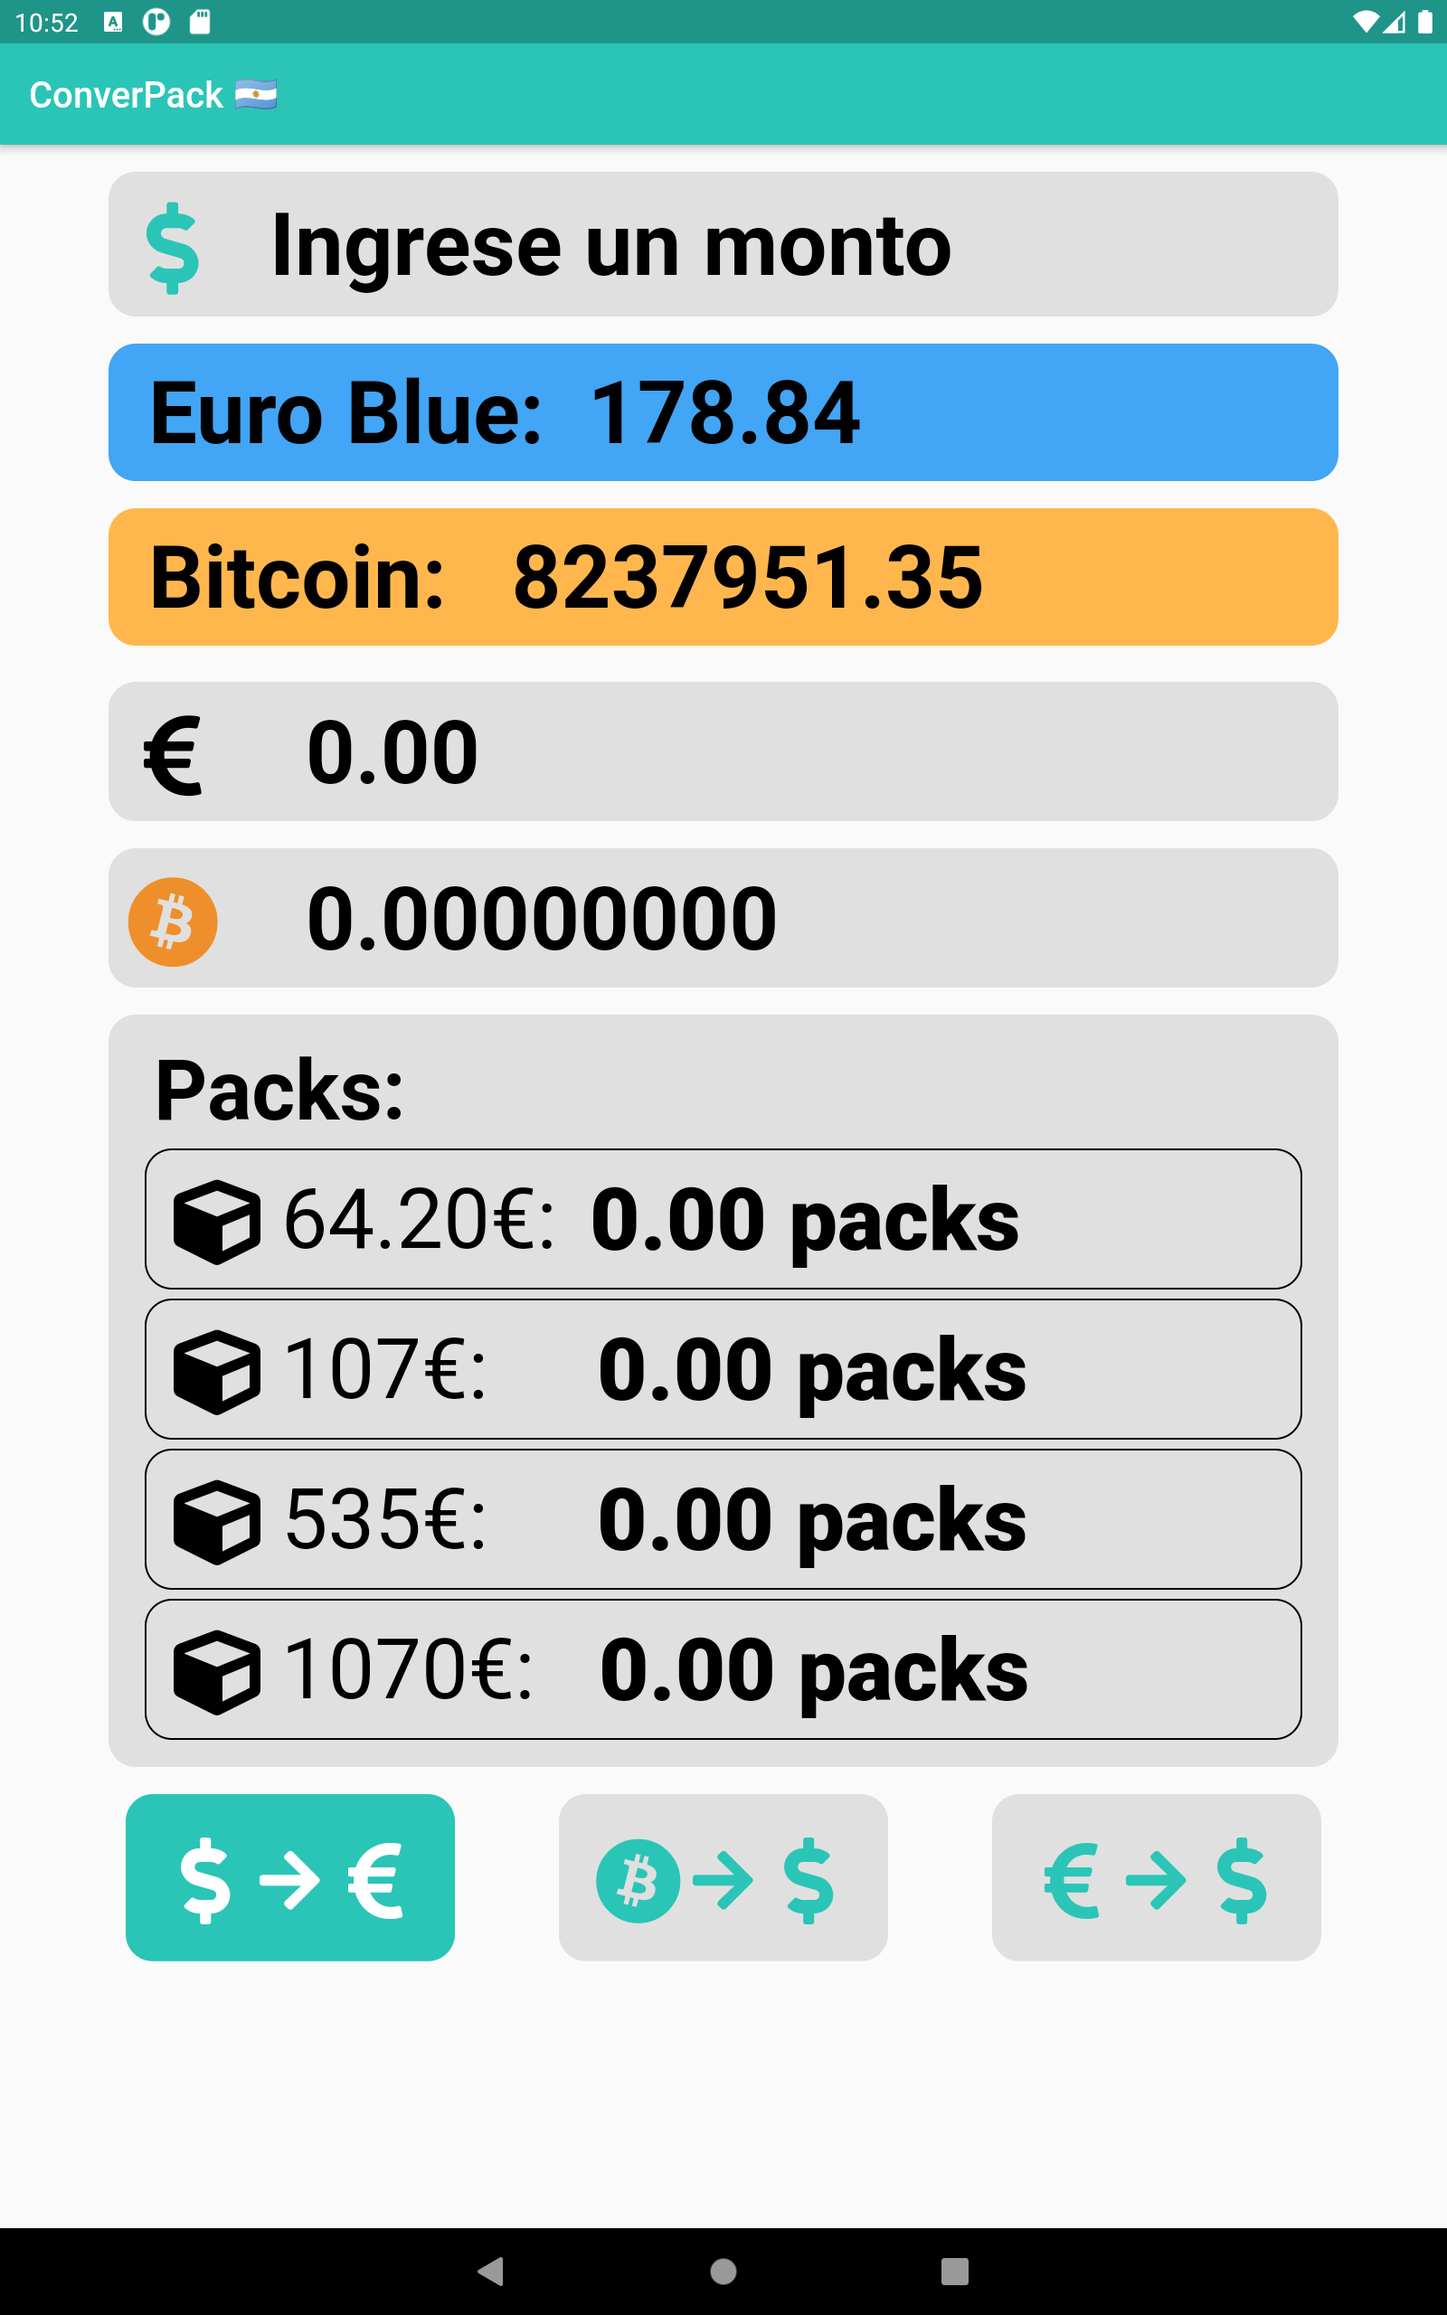
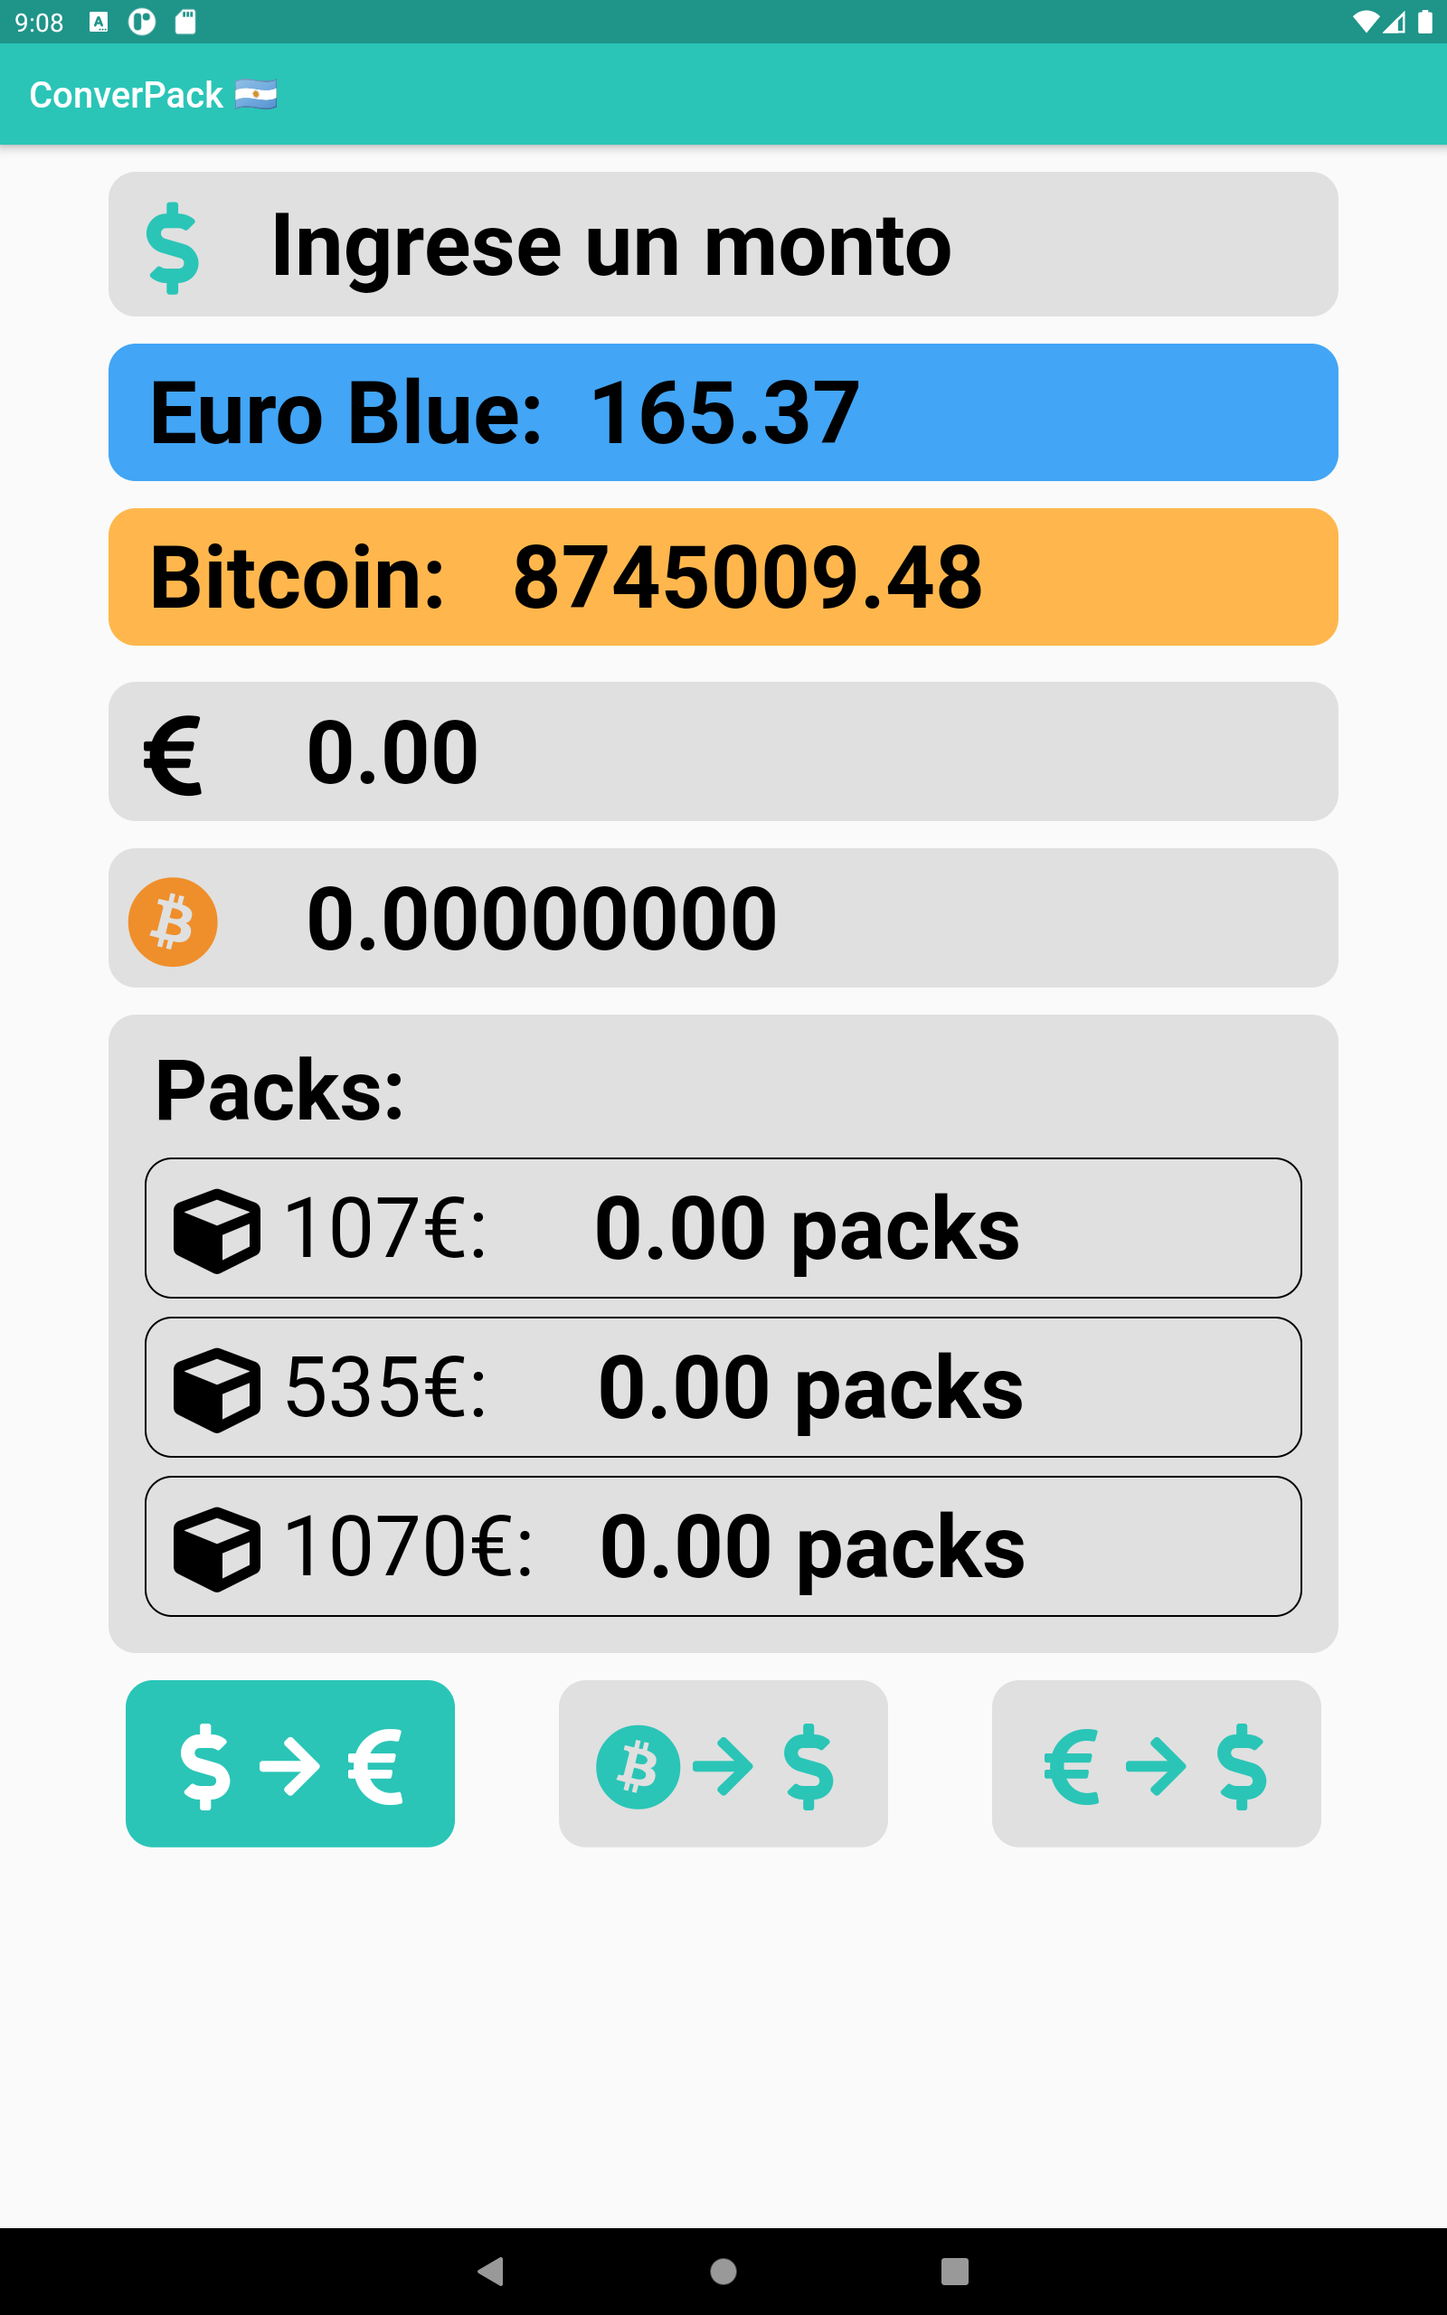
se ajustan tamano de botones y tipografia

diff --git a/lib/src/widgets/cotizacion.dart b/lib/src/widgets/cotizacion.dart
@@ -1,9 +1,10 @@
+import 'dart:io';
+
 import 'package:flutter/material.dart';
 import 'package:provider/provider.dart';
 import 'package:converpak/src/models/moneda_model.dart';
 import 'package:converpak/src/services/datos.dart';
 import 'package:converpak/src/services/moneda_service.dart';
-
 
 class Cotizacion extends StatelessWidget {
   Future<List<Moneda>> _cotizaciones;
@@ -17,112 +18,115 @@ class Cotizacion extends StatelessWidget {
     _cotizaciones = (datos.valorEuro == 0.0 || datos.valorBitcoin == 0.0)
         ? _monedaService.getCotizaciones()
         : _cotizaciones;
-    
-    return FutureBuilder(
-      future: _cotizaciones,
-      builder: (BuildContext context, AsyncSnapshot snapshot) {
-        if (snapshot.hasData) {
-          List<Moneda> monedas = snapshot.data;
 
-          monedas.forEach((element) {
-            if (element.tipo.contains('euro_blue')) {
-                
-              datos.valorEuro = element.valor;
-              
-            } else {
-              datos.valorBitcoin = element.valor;
-            }
-          });
-          return Column(
-            children: [
-              Container(
+    double alturaBoton = 0.0;
+    if (datos.width < 600 && datos.width < 350) {
+      alturaBoton = datos.height * 0.075;
+    }
+
+    return FutureBuilder(
+        future: _cotizaciones,
+        builder: (BuildContext context, AsyncSnapshot snapshot) {
+          if (snapshot.hasData) {
+            List<Moneda> monedas = snapshot.data;
+
+            monedas.forEach((element) {
+              if (element.tipo.contains('euro_blue')) {
+                datos.valorEuro = element.valor;
+              } else {
+                datos.valorBitcoin = element.valor;
+              }
+            });
+            return Column(
+              children: [
+                Container(
+                    padding: EdgeInsets.all(10.0),
+                    margin: EdgeInsets.only(bottom: 15.0),
+                    width: datos.width * 0.85,
+                    decoration: BoxDecoration(
+                      color: Colors.blue[400],
+                      borderRadius: BorderRadius.circular(15.0),
+                    ),
+                    child: Text(
+                      // comparo que el numero no termine en .0 o .n, de ser asi, le agrego un 0 al final para tener 2 decimales
+                      ((datos.valorEuro * 10).toString().endsWith(".0"))
+                          ? ' Euro Blue:  ${datos.valorEuro}0'
+                          : ' Euro Blue:  ${datos.valorEuro}',
+                      style: TextStyle(
+                          fontSize: datos.fontSize,
+                          fontWeight: FontWeight.bold,
+                          color: Colors.black),
+                    )),
+                Container(
                   padding: EdgeInsets.all(10.0),
-                  margin: EdgeInsets.only(bottom: 15.0),
+                  margin: EdgeInsets.only(bottom: 10.0),
                   width: datos.width * 0.85,
                   decoration: BoxDecoration(
-                    color: Colors.blue[400],
+                    color: Colors.orange[300],
                     borderRadius: BorderRadius.circular(15.0),
                   ),
                   child: Text(
-                    // comparo que el numero no termine en .0 o .n, de ser asi, le agrego un 0 al final para tener 2 decimales
-                    ((datos.valorEuro * 10).toString().endsWith(".0")) ? 
-                    ' Euro Blue:  ${datos.valorEuro}0' :
-                    ' Euro Blue:  ${datos.valorEuro}',
-                    style: TextStyle(
-                        fontSize: datos.fontSize,
-                        fontWeight: FontWeight.bold,
-                        color: Colors.black),
-                  )),
-              Container(
+                      // comparo que el numero no termine en .0 o .n, de ser asi, le agrego un 0 al final para tener 2 decimales
+                      ((datos.valorBitcoin * 10).toString().endsWith(".0"))
+                          ? ' Bitcoin:   ${datos.valorBitcoin}0'
+                          : ' Bitcoin:   ${datos.valorBitcoin}',
+                      style: TextStyle(
+                          fontSize: datos.fontSize,
+                          fontWeight: FontWeight.bold,
+                          color: Colors.black)),
+                ),
+              ],
+            );
+          } else if (snapshot.hasError) {
+            return Container(
                 padding: EdgeInsets.all(10.0),
                 margin: EdgeInsets.only(bottom: 10.0),
                 width: datos.width * 0.85,
+                height: 125.0,
                 decoration: BoxDecoration(
-                  color: Colors.orange[300],
+                  color: Colors.grey[300],
                   borderRadius: BorderRadius.circular(15.0),
                 ),
-                child: Text(
-                  // comparo que el numero no termine en .0 o .n, de ser asi, le agrego un 0 al final para tener 2 decimales
-                  ((datos.valorBitcoin * 10).toString().endsWith(".0")) ? 
-                    ' Bitcoin:   ${datos.valorBitcoin}0' :
-                    ' Bitcoin:   ${datos.valorBitcoin}',
-                    style: TextStyle(
-                        fontSize: datos.fontSize,
-                        fontWeight: FontWeight.bold,
-                        color: Colors.black)),
-              ),
-            ],
-          );
-        } else if (snapshot.hasError) {
-          return Container(
+                child: Column(
+                  mainAxisAlignment: MainAxisAlignment.center,
+                  children: [
+                    Icon(Icons.cloud_off, color: Colors.black, size: 45.0),
+                    SizedBox(height: 5.0),
+                    Text(
+                      'No se puede acceder al servidor vuelva a intentarlo mas tarde.',
+                      style: TextStyle(
+                          fontSize: 20.0,
+                          color: Colors.black,
+                          fontWeight: FontWeight.bold),
+                      textAlign: TextAlign.center,
+                    ),
+                  ],
+                ));
+          } else {
+            return Container(
               padding: EdgeInsets.all(10.0),
               margin: EdgeInsets.only(bottom: 10.0),
               width: datos.width * 0.85,
-              height: 125.0,
+              height: (Platform.isAndroid) ? 125.0 : 140.0,
               decoration: BoxDecoration(
                 color: Colors.grey[300],
                 borderRadius: BorderRadius.circular(15.0),
               ),
               child: Column(
-                mainAxisAlignment: MainAxisAlignment.center,
+                mainAxisAlignment: MainAxisAlignment.spaceEvenly,
                 children: [
-                  Icon(Icons.cloud_off, color: Colors.black, size: 45.0),
-                  SizedBox(height: 5.0),
                   Text(
-                    'No se puede acceder al servidor vuelva a intentarlo mas tarde.',
+                    'Cargando cotizaciones',
                     style: TextStyle(
-                        fontSize: 20.0,
+                        fontSize: datos.fontSize,
                         color: Colors.black,
                         fontWeight: FontWeight.bold),
-                    textAlign: TextAlign.center,
                   ),
+                  CircularProgressIndicator(),
                 ],
-              ));
-        } else {
-          return Container(
-            padding: EdgeInsets.all(10.0),
-            margin: EdgeInsets.only(bottom: 10.0),
-            width: datos.width * 0.85,
-            height: 125.0,
-            decoration: BoxDecoration(
-              color: Colors.grey[300],
-              borderRadius: BorderRadius.circular(15.0),
-            ),
-            child: Column(
-              mainAxisAlignment: MainAxisAlignment.spaceEvenly,
-              children: [
-                Text(
-                  'Cargando cotizaciones',
-                  style: TextStyle(
-                      fontSize: datos.fontSize,
-                      color: Colors.black,
-                      fontWeight: FontWeight.bold),
-                ),
-                CircularProgressIndicator(),
-              ],
-            ),
-          );
-        }
-      });
+              ),
+            );
+          }
+        });
   }
 }

diff --git a/lib/src/widgets/packs.dart b/lib/src/widgets/packs.dart
@@ -1,3 +1,5 @@
+import 'dart:io';
+
 import 'package:flutter/material.dart';
 import 'package:font_awesome_flutter/font_awesome_flutter.dart';
 import 'package:provider/provider.dart';
@@ -24,57 +26,23 @@ class Packs extends StatelessWidget {
             child: Text('Packs:',
               style: TextStyle(
                 fontSize: datos.fontSize - 2,
-                fontWeight: FontWeight.bold,
+                fontWeight: FontWeight.w700,
                 color: Colors.black
               )
             ),
           ),
-          _pack64(datos),
+          SizedBox(height: 5.0),
           _pack107(datos),
+          SizedBox(height: 5.0),
           _pack535(datos),
+          SizedBox(height: 5.0),
           _pack1070(datos),
+          SizedBox(height: 5.0),
         ],
       ),
     );
   }
 
-  Container _pack64(Datos datos) {
-    return Container(
-      padding: EdgeInsets.all(10.0),
-      margin: EdgeInsets.only(bottom: 5.0),
-      width: datos.width * 0.80,
-      decoration: BoxDecoration(
-        borderRadius: BorderRadius.circular(15.0),
-        border: Border.all(),
-      ),
-      child: Row(
-        children: [
-          SizedBox(width: 5.0),
-          Icon(FontAwesomeIcons.cube, size: datos.fontSize, color: Colors.black),
-          Text(' 64.20€: ',
-            style: TextStyle(
-              fontSize: datos.fontSize - 2,
-              fontWeight: FontWeight.w400,
-              color: Colors.black
-            )
-          ),
-          Flexible(
-            child: Padding(
-              padding: const EdgeInsets.only(left: 6.0),
-              child: Text('${datos.packs64.toStringAsFixed(2)} packs',
-                overflow: TextOverflow.ellipsis,
-                style: TextStyle(
-                  fontSize: datos.fontSize,
-                  fontWeight: FontWeight.w900,
-                  color: Colors.black
-                )
-              ),
-            ),
-          ),
-        ],
-      ),
-    );
-  }
   Container _pack107(Datos datos) {
     return Container(
       padding: EdgeInsets.all(10.0),
@@ -98,12 +66,12 @@ class Packs extends StatelessWidget {
           ),
           Flexible(
             child: Padding(
-              padding: const EdgeInsets.only(left: 2.0),
+              padding: (Platform.isAndroid) ? const EdgeInsets.only(left: 0.0) : const EdgeInsets.only(left: 4.0),
               child: Text('${datos.packs107.toStringAsFixed(2)} packs',
                 overflow: TextOverflow.ellipsis,
                 style: TextStyle(
                   fontSize: datos.fontSize,
-                  fontWeight: FontWeight.w900,
+                  fontWeight: FontWeight.w700,
                   color: Colors.black
                 )
               ),
@@ -137,12 +105,12 @@ class Packs extends StatelessWidget {
           ),
           Flexible(
             child: Padding(
-              padding: const EdgeInsets.only(left: 2.0),
+              padding: (Platform.isAndroid) ? const EdgeInsets.only(left: 2.0) : const EdgeInsets.only(left: 0.0),
               child: Text('${datos.packs535.toStringAsFixed(2)} packs',
                 overflow: TextOverflow.ellipsis,
                 style: TextStyle(
                   fontSize: datos.fontSize,
-                  fontWeight: FontWeight.w900,
+                  fontWeight: FontWeight.w700,
                   color: Colors.black
                 )
               ),
@@ -176,13 +144,16 @@ class Packs extends StatelessWidget {
             )
           ),
           Flexible(
-            child: Text('${datos.packs1070.toStringAsFixed(2)} packs',
-              overflow: TextOverflow.ellipsis,
-              style: TextStyle(
-                fontSize: datos.fontSize,
-                fontWeight: FontWeight.w900,
-                color: Colors.black
-              )
+            child: Padding(
+              padding: (Platform.isAndroid) ? const EdgeInsets.only(left: 0.0) : const EdgeInsets.only(left: 4.0),
+              child: Text('${datos.packs1070.toStringAsFixed(2)} packs',
+                overflow: TextOverflow.ellipsis,
+                style: TextStyle(
+                  fontSize: datos.fontSize,
+                  fontWeight: FontWeight.w700,
+                  color: Colors.black
+                )
+              ),
             ),
           ),
         ],

diff --git a/lib/src/widgets/botones.dart b/lib/src/widgets/botones.dart
@@ -1,3 +1,5 @@
+import 'dart:io';
+
 import 'package:flutter/material.dart';
 import 'package:font_awesome_flutter/font_awesome_flutter.dart';
 import 'package:provider/provider.dart';
@@ -27,6 +29,8 @@ class Botones extends StatelessWidget {
       alturaBoton = datos.height * 0.075;
     } else if (datos.height <= 800 && datos.width <= 1300) {
       alturaBoton = datos.height * 0.2;
+    } else if (Platform.isIOS && datos.height >= 1300) {
+      alturaBoton = datos.height * 0.08;
     } else {
       alturaBoton = datos.height * 0.2;
     }
@@ -82,8 +86,7 @@ class Botones extends StatelessWidget {
 
   FlatButton _convertirBitAPeso(Datos datos, double alturaBoton) {
     return FlatButton(
-        height:
-            alturaBoton, //(datos.height < 350.0) ? datos.height * 0.2 : datos.height * 0.075,
+        height: alturaBoton, //(datos.height < 350.0) ? datos.height * 0.2 : datos.height * 0.075,
         color: (datos.bitAPeso) ? datos.color : Colors.grey[300],
         child: Row(
           children: [
@@ -116,8 +119,7 @@ class Botones extends StatelessWidget {
 
   FlatButton _convertirAPeso(Datos datos, double alturaBoton) {
     return FlatButton(
-        height:
-            alturaBoton, //(datos.height < 350.0) ? datos.height * 0.2 : datos.height * 0.075,
+        height: alturaBoton, //(datos.height < 350.0) ? datos.height * 0.2 : datos.height * 0.075,
         color: (datos.euroAPeso) ? datos.color : Colors.grey[300],
         child: Row(
           children: [
